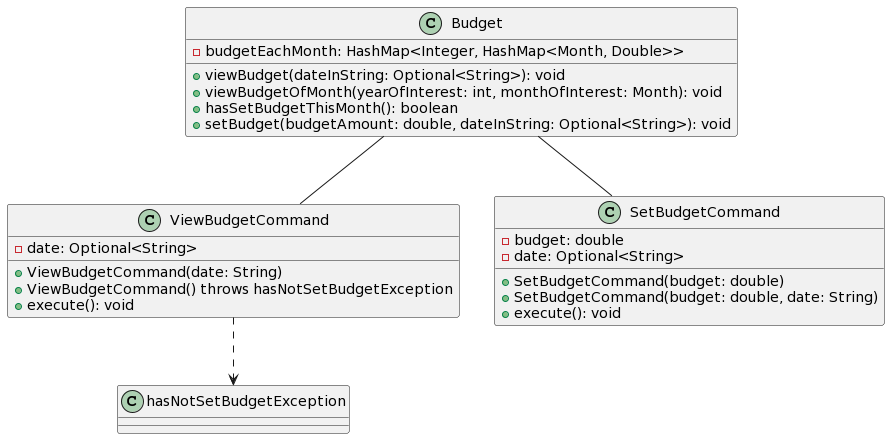
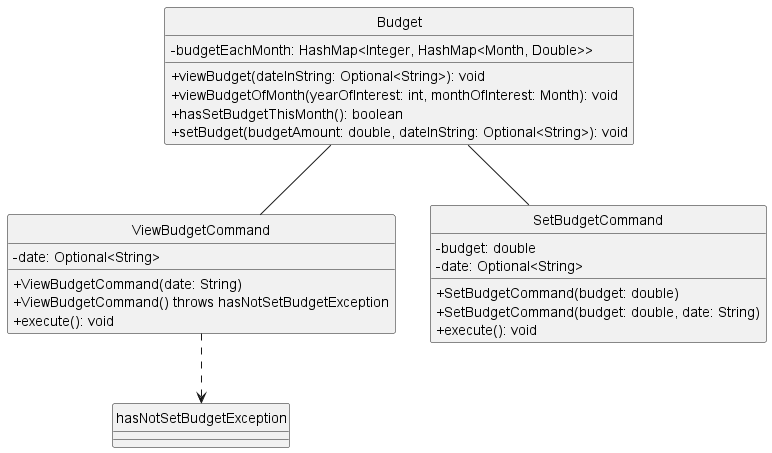
fixed hyperlink for BudgetClassUML and slight edit to BudgetClassUML.puml

diff --git a/docs/DeveloperGuide.md b/docs/DeveloperGuide.md
@@ -170,7 +170,7 @@ The `Budget` component,
 
 Here is a UML diagram of the `Budget` component:
 
-![BudgetClassDiagram](https://github.com/AY2223S2-CS2113-F13-2/tp/blob/master/docs/images/BudgetClassUML.png)
+![BudgetClassDiagram](./images/BudgetClassUML.png)
 
 ### Common class
 
